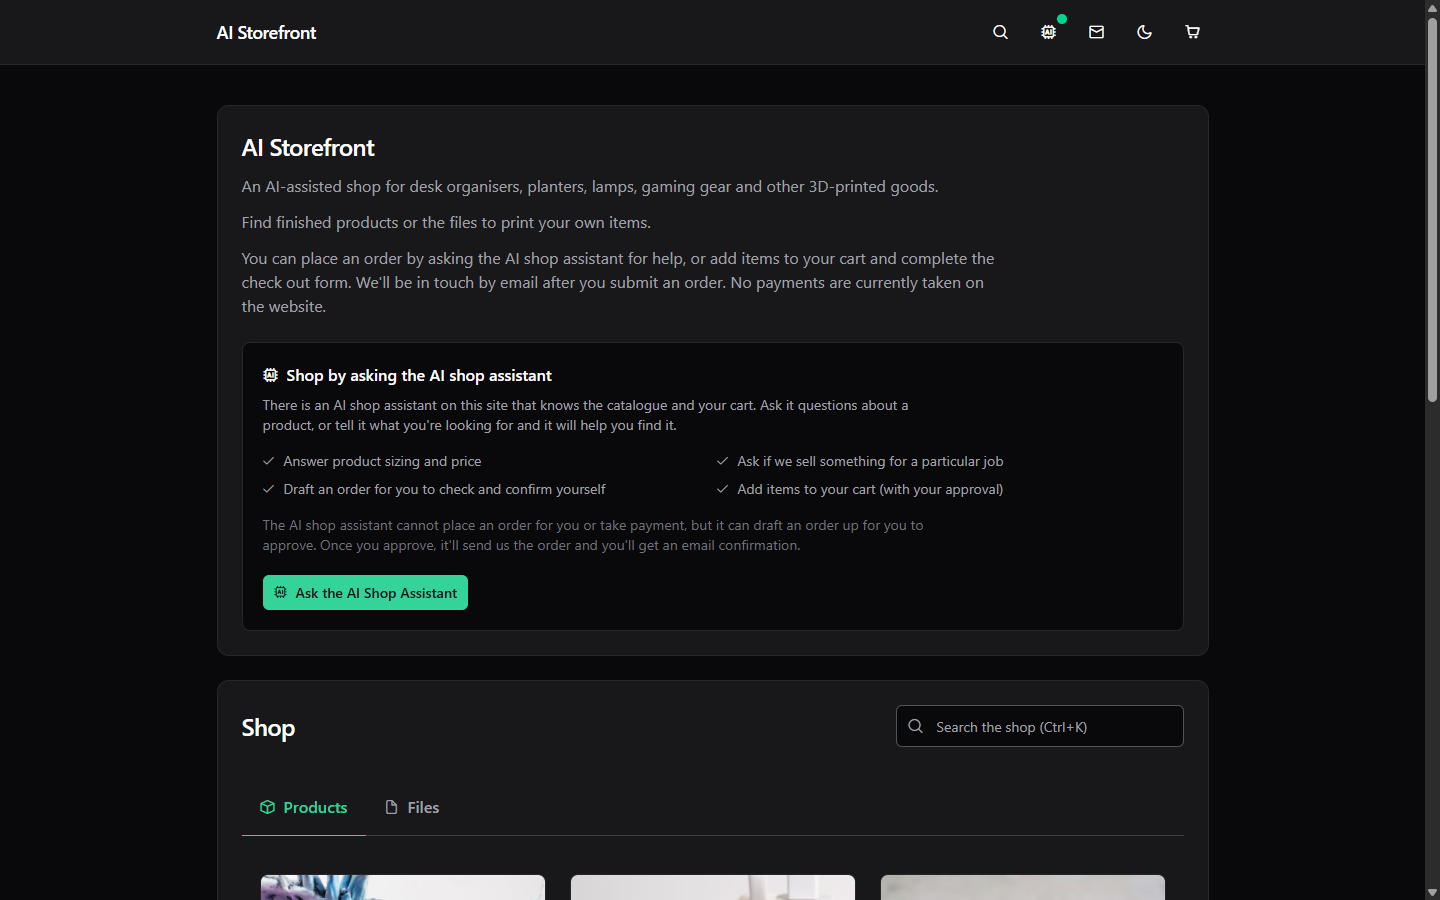
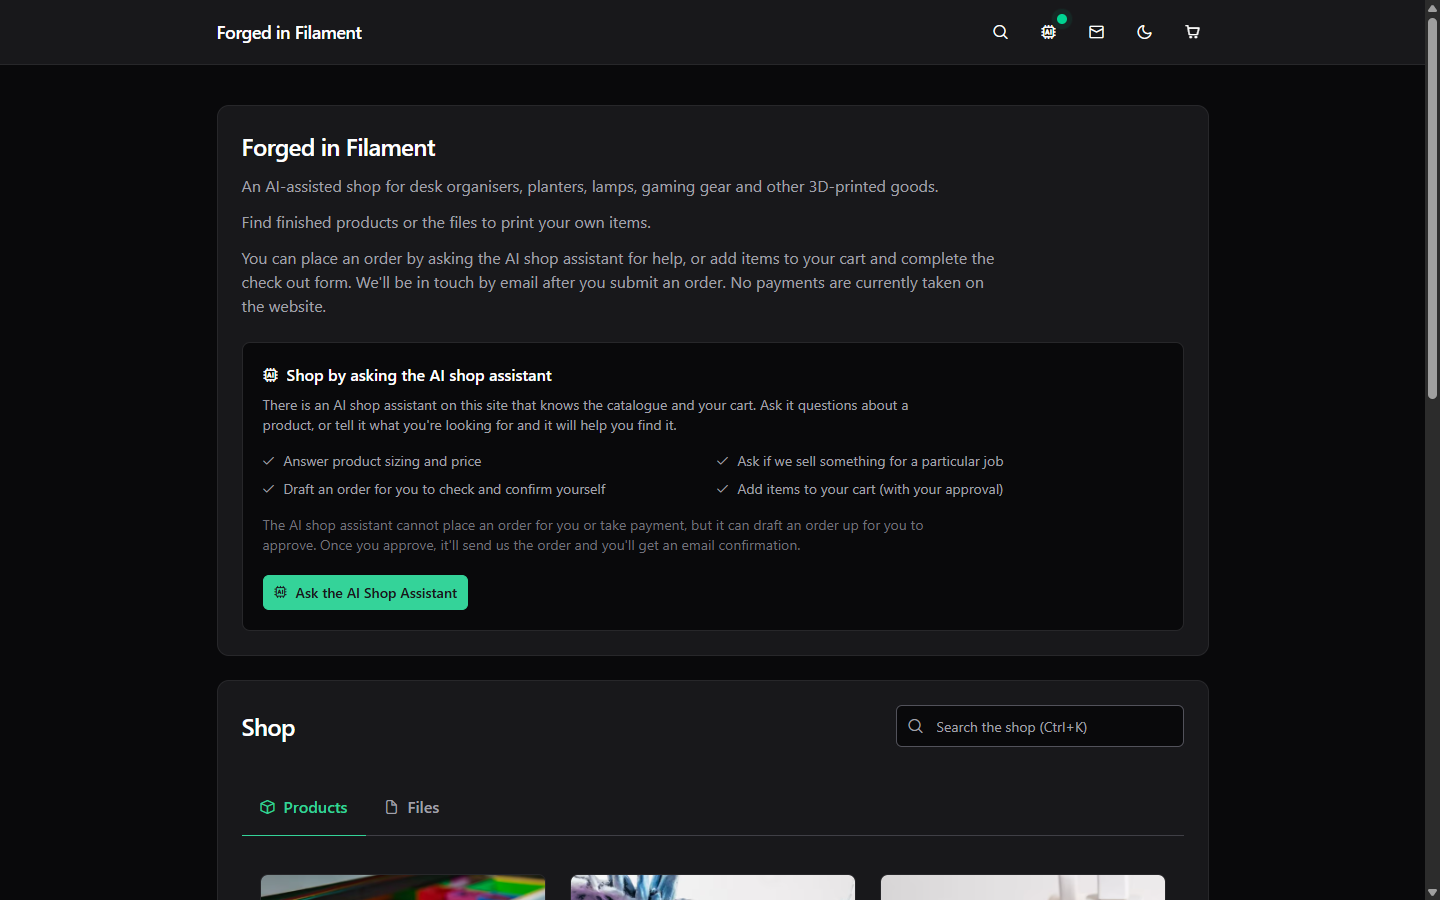
docs: point the link and the screenshots at Forged in Filament
The cherry-pick from main brought the demo's URL and its screenshots with it.
This branch is a different shop, so both are replaced: the link goes to
fif.bobdempsey83.com and the two images are of that storefront, taken at
1440x900 in each theme.

diff --git a/README.md b/README.md
@@ -4,14 +4,14 @@ A Nuxt 4 storefront template with a shopping assistant, and a request-an-order
 checkout: customers build a cart and submit it, staff receive the order by email
 and arrange payment off-app.
 
-**Live demo: [ai-storefront.bobdempsey83.com](https://ai-storefront.bobdempsey83.com/)**
+**Live shop: [fif.bobdempsey83.com](https://fif.bobdempsey83.com/)**
 
-![The storefront in light mode: the shop page with the assistant panel and the product grid](docs/screenshot-storefront.png)
+![Forged in Filament in light mode: the shop page with the assistant panel and the product grid](docs/screenshot-storefront.png)
 
 The same page in dark mode, which the navbar toggles and the page applies before
 first paint:
 
-![The storefront in dark mode](docs/screenshot-storefront-dark.png)
+![Forged in Filament in dark mode](docs/screenshot-storefront-dark.png)
 
 ## Stack
 
